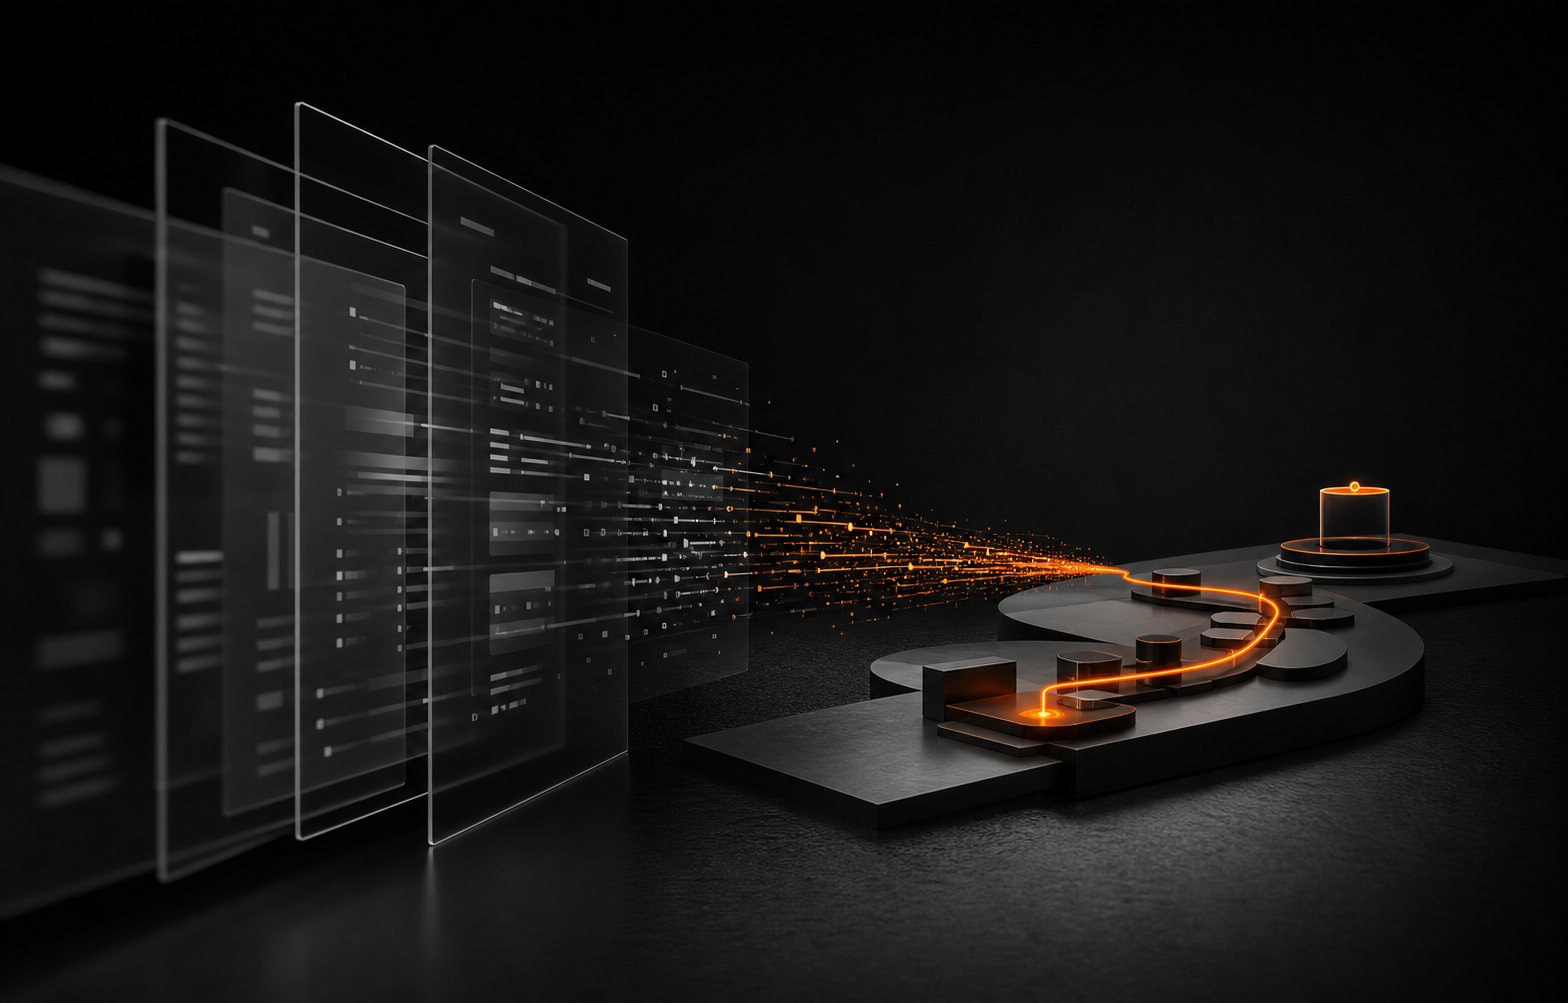
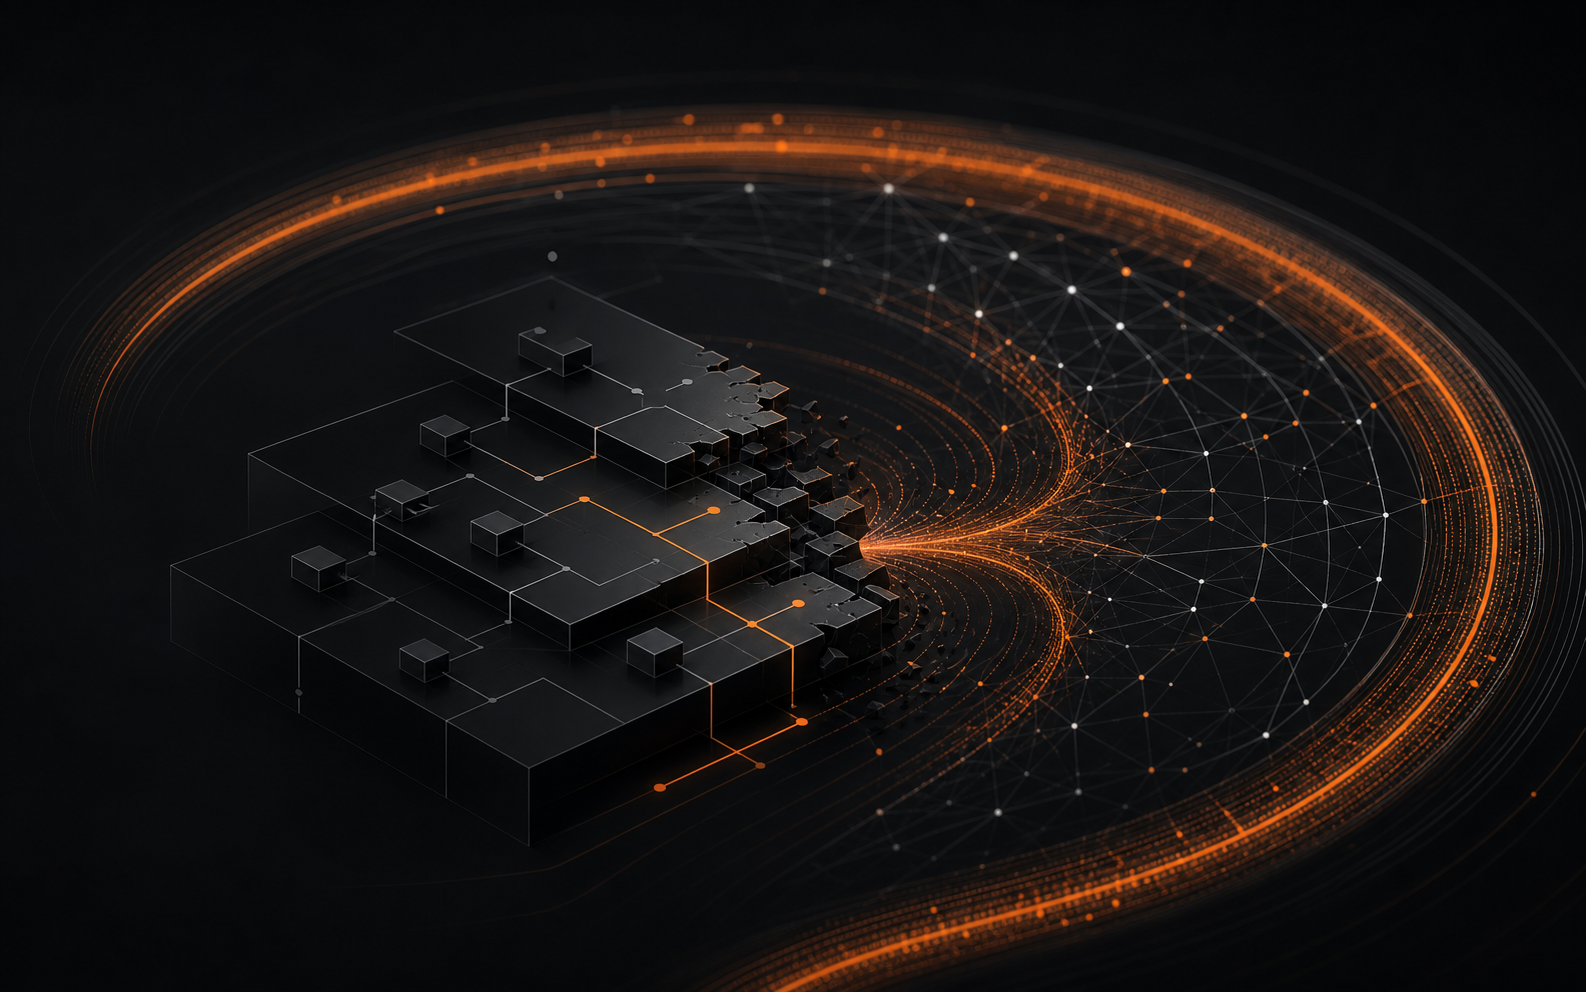
imgs

diff --git a/src/_data/slides.js b/src/_data/slides.js
@@ -28,6 +28,7 @@ export default [
         text: "La defensa no esta en acumular features, sino en controlar workflows criticos, contexto propietario y confianza operativa dificil de replicar."
       }
     ],
+    image: "/assets/img/slide-02.png",
     theme: "threat"
   },
   {
@@ -52,7 +53,7 @@ export default [
         text: "ROI duro y demostrable en menos de 90 dias."
       }
     ],
-    image: "/assets/img/slide-02.png",
+    image: "/assets/img/slide-03.png",
     imageAlt: "Cuatro pilares oscuros conectados por una ruta naranja de evaluacion.",
     theme: "variables"
   },
@@ -67,7 +68,7 @@ export default [
       ["E", "Economia", "¿El pricing se alinea al resultado y no solo al uso?"],
       ["R", "Riesgo y ritmo", "¿Automatiza con control y aprende rapido?"]
     ],
-    image: "/assets/img/slide-03.png",
+    image: "/assets/img/slide-04.png",
     imageAlt: "Cinco nodos estrategicos conectados por una arquitectura de decision.",
     theme: "framework"
   },
@@ -79,7 +80,7 @@ export default [
       before: "Software para que humanos escriban, clasifiquen y cierren tickets.",
       after: "Sistema que resuelve el 80% de los casos con historial, permisos y reglas de la empresa, cobrando por ticket resuelto."
     },
-    image: "/assets/img/slide-04.png",
+    image: "/assets/img/slide-05.png",
     imageAlt: "Flujo operacional oscuro que transforma trabajo pendiente en resultados resueltos.",
     theme: "example"
   },
@@ -89,7 +90,7 @@ export default [
     lead: "La defensa es controlar un workflow critico y sostener una capa de confianza dificil de replicar.",
     body: "Evalua cada iniciativa con PODER. Si suma 4 o 5 puntos, es prioridad. Si suma menos de 2, abandonala antes de que el mercado la convierta en commodity.",
     signal: "No compitas por mas pantallas. Compite por el resultado.",
-    image: "/assets/img/slide-05.png",
+    image: "/assets/img/slide-06.png",
     imageAlt: "Nucleo operacional protegido por anillos de confianza y una ruta naranja controlada.",
     theme: "action"
   }